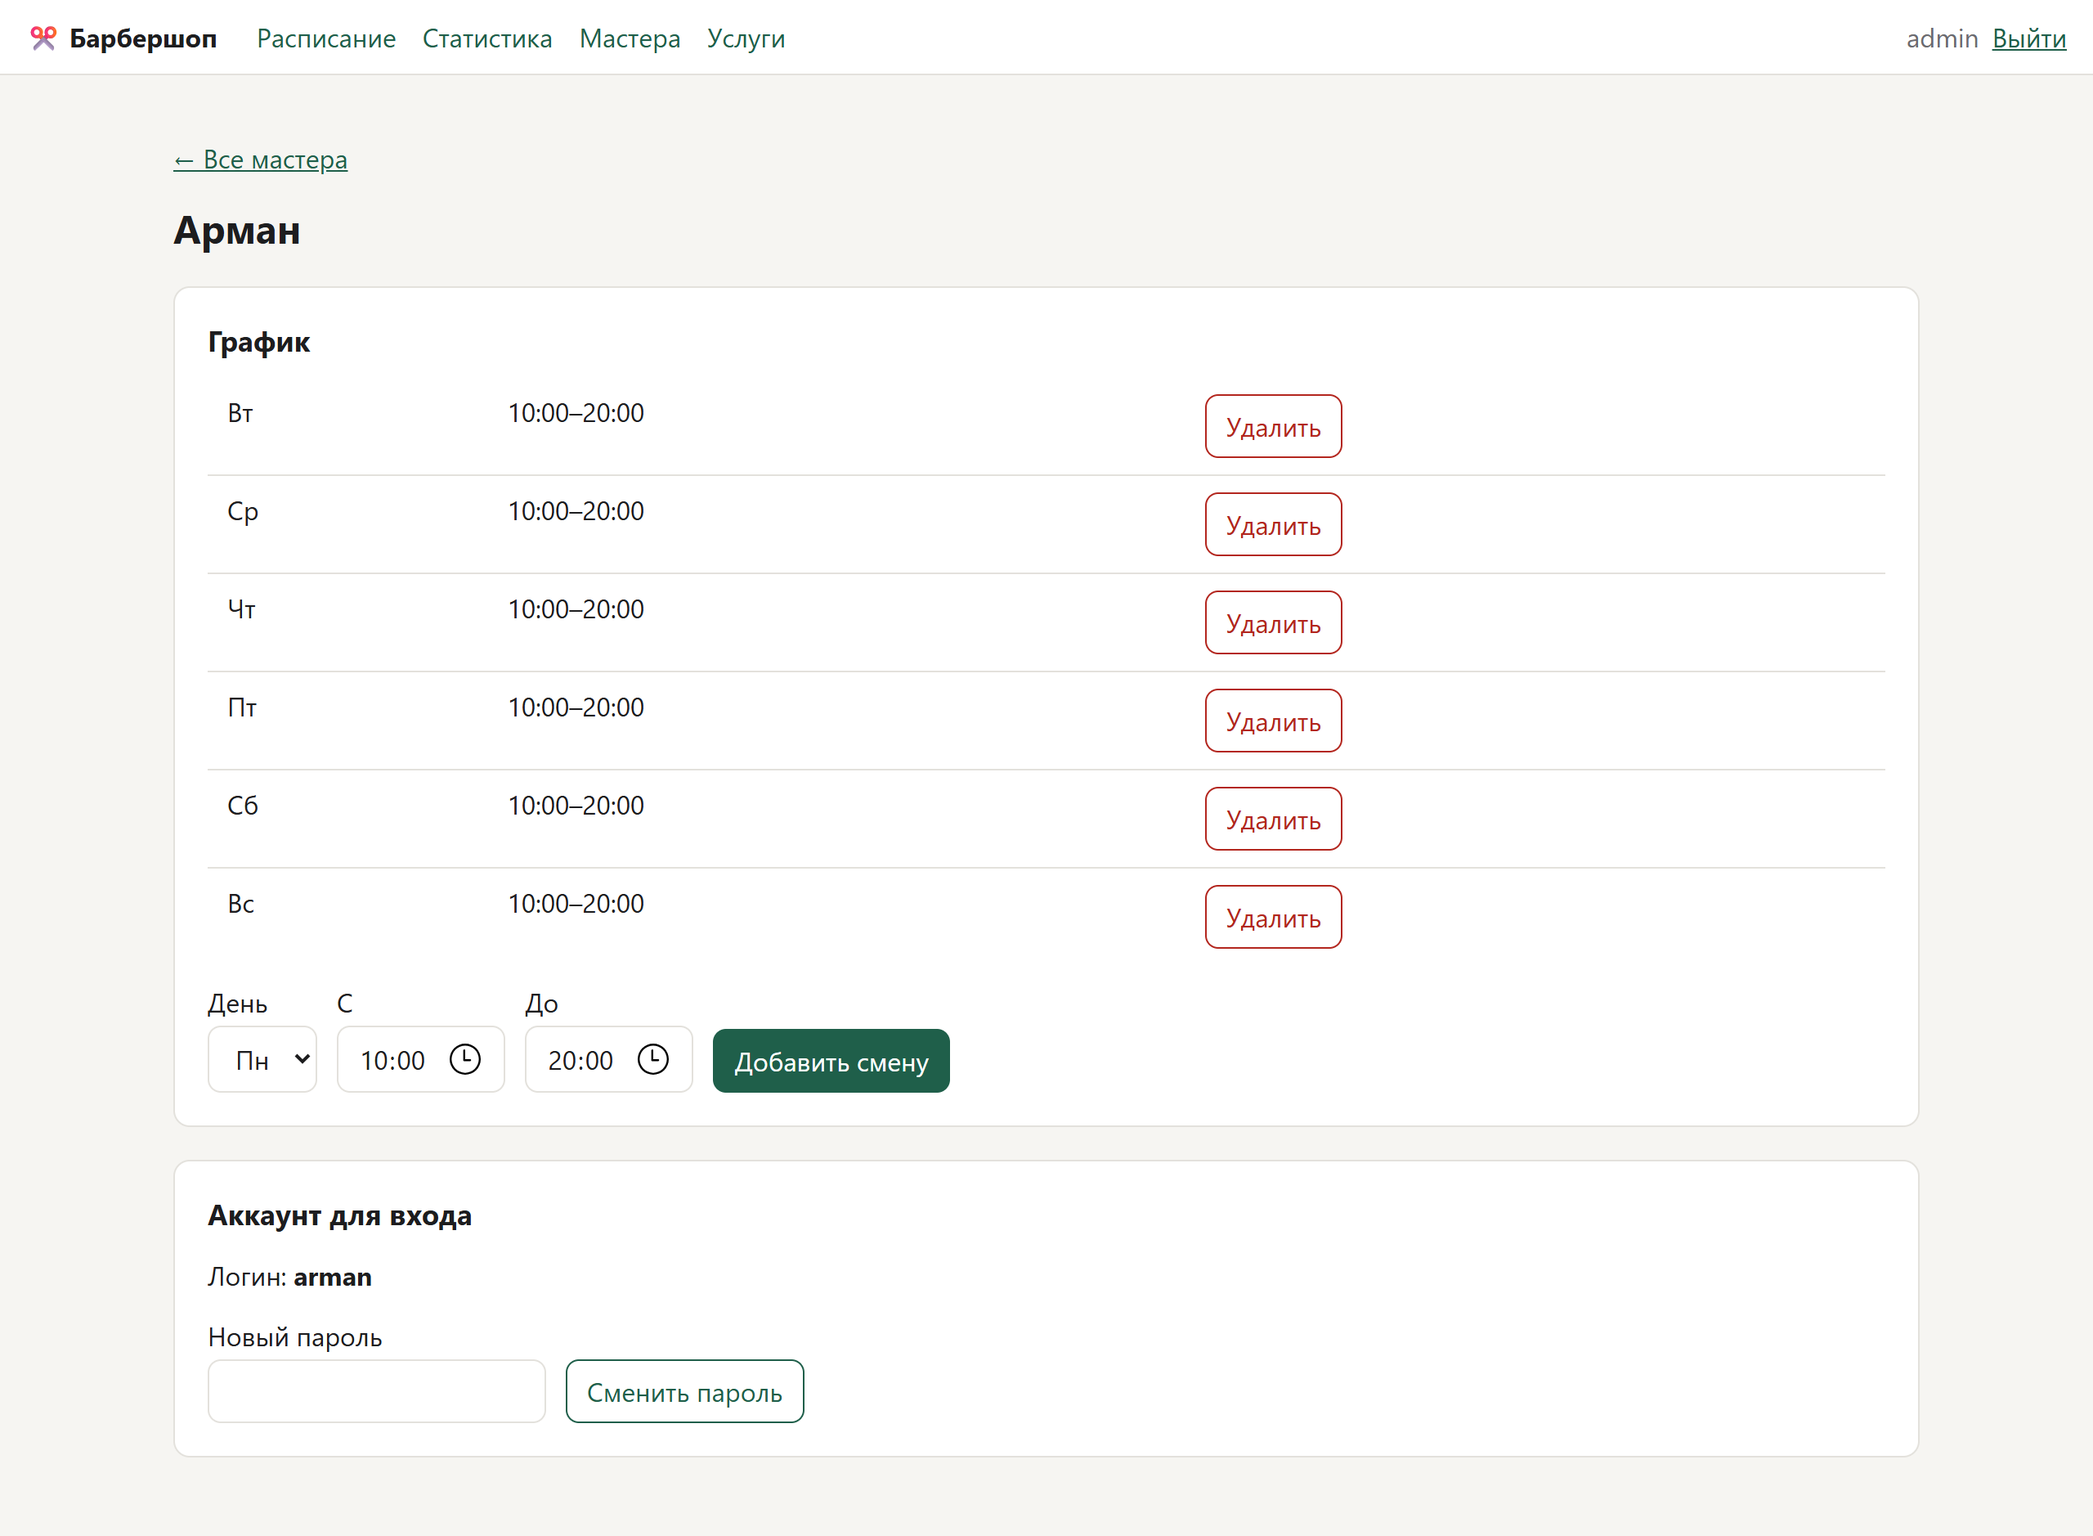
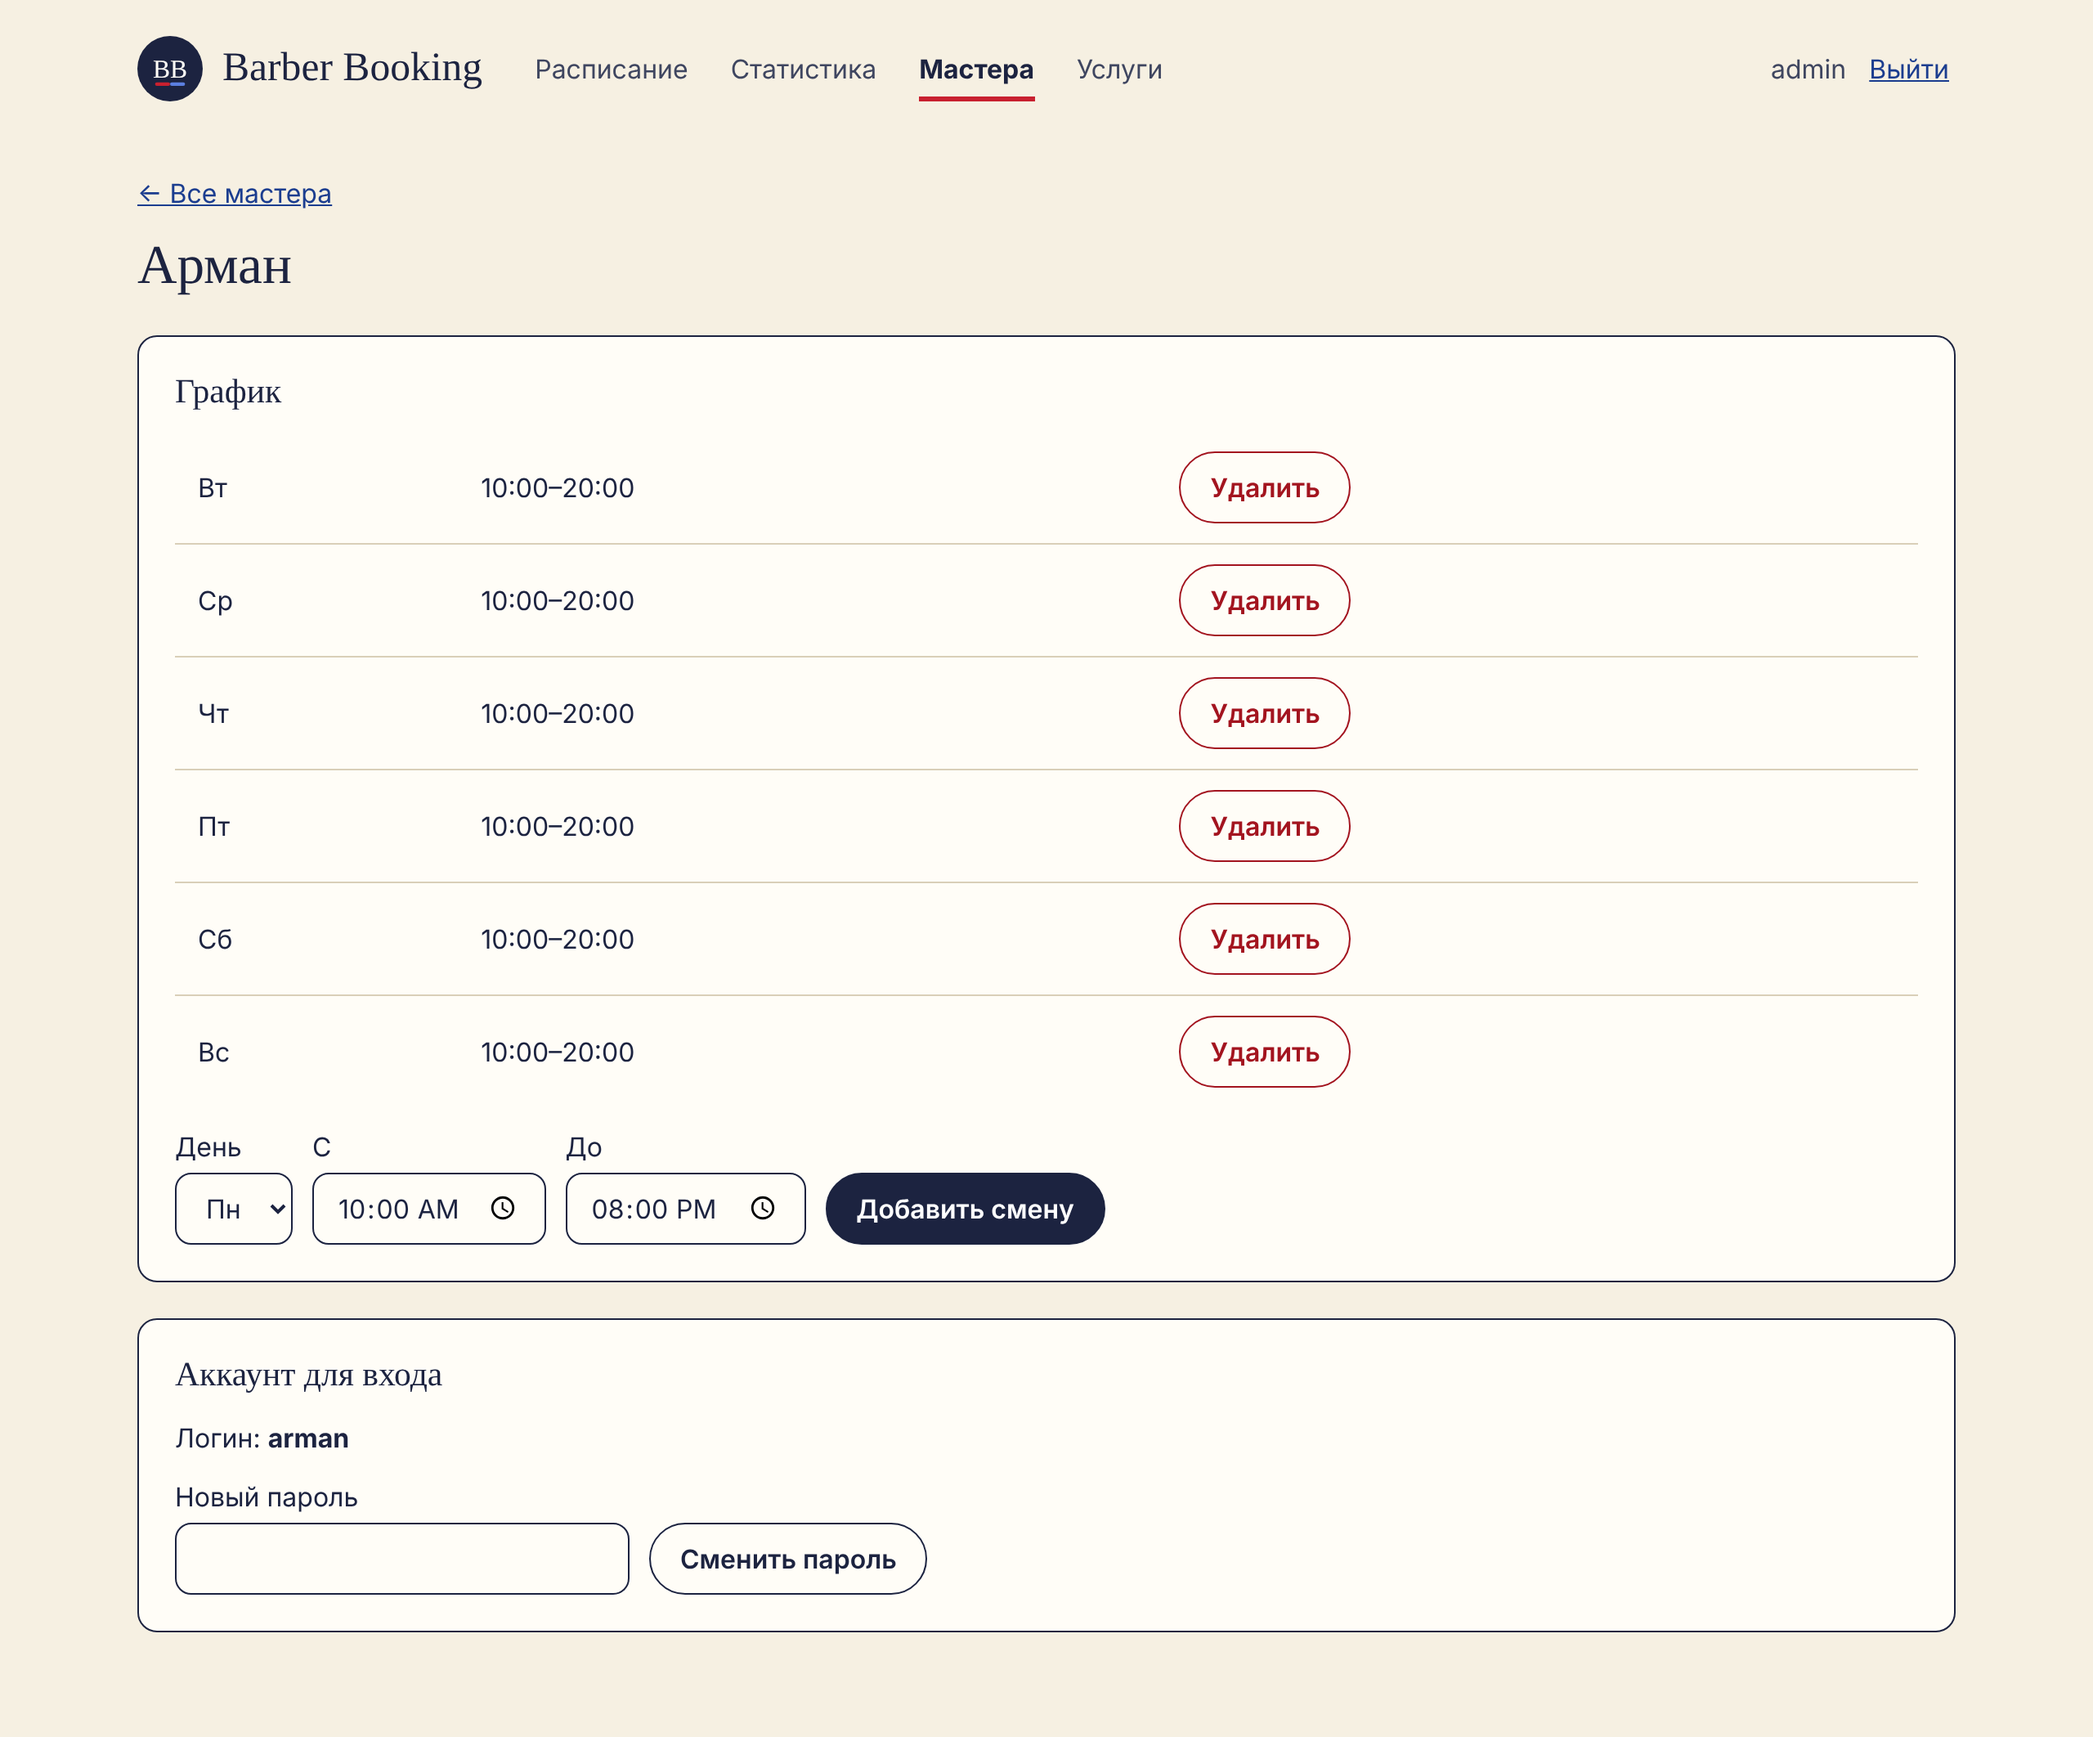
Polish README and refresh admin screenshots
Centered header with icon, badges and the timeline screenshot, new
stats and barber screenshots in the current design, hours shown as
"39 / 60 ч" on the stats page.

Claude-Session: https://claude.ai/code/session_01D18ToYfT8JomoVtHmpPav1

diff --git a/app/templates/admin_stats.html b/app/templates/admin_stats.html
@@ -25,7 +25,7 @@
     <tr>
       <th>Мастер</th><th class="num">Записей</th><th class="num">Пришли</th>
       <th class="num">Не пришли</th><th class="num">Отменили</th><th class="num">Без отметки</th>
-      <th class="num">Занято / по графику, ч</th><th class="num">Загрузка</th><th class="num">Выручка</th>
+      <th class="num">Занято / по графику</th><th class="num">Загрузка</th><th class="num">Выручка</th>
     </tr>
   </thead>
   <tbody>
@@ -37,7 +37,7 @@
       <td class="num">{{ r.no_show }}</td>
       <td class="num">{{ r.cancelled }}</td>
       <td class="num">{{ r.pending }}</td>
-      <td class="num">{{ (r.busy_minutes / 60)|round(1) }} / {{ (r.work_minutes / 60)|round(1) }}</td>
+      <td class="num nowrap">{{ "%g"|format((r.busy_minutes / 60)|round(1)) }} / {{ "%g"|format((r.work_minutes / 60)|round(1)) }} ч</td>
       <td class="num">
         {% if r.load_percent is not none %}
           <span class="bar"><span style="width: {{ [r.load_percent, 100]|min }}%"></span></span>

diff --git a/app/static/style.css b/app/static/style.css
@@ -207,3 +207,4 @@ button.on-red.ghost { background: transparent; color: #fff; }
   table.cards td.actions button { flex: 1; }
   table.cards .actions form { display: flex; width: 100%; }
 }
+.card td { vertical-align: middle; }  /* строки графика: текст на одной линии с кнопкой */

diff --git a/README.md b/README.md
@@ -1,8 +1,23 @@
+<div align="center">
+
+<img src="app/static/icon.svg" width="72" alt="">
+
 # Barber Booking
 
-Онлайн-запись в барбершоп: клиент записывается через Telegram-бота, мастер отмечает визиты в веб-кабинете, админ управляет мастерами и услугами и смотрит загрузку и выручку.
+**Онлайн-запись в барбершоп.** Клиент записывается через Telegram-бота, мастер отмечает визиты в веб-кабинете, админ видит загрузку и выручку. Две записи на одно время база данных не пропустит.
 
-![CI](https://github.com/Karasai69/barber-booking/actions/workflows/ci.yml/badge.svg)
+[![CI](https://github.com/Karasai69/barber-booking/actions/workflows/ci.yml/badge.svg)](https://github.com/Karasai69/barber-booking/actions/workflows/ci.yml)
+![Python](https://img.shields.io/badge/Python-3.13-1c2340)
+![FastAPI](https://img.shields.io/badge/FastAPI-Jinja2-1c2340)
+![PostgreSQL](https://img.shields.io/badge/PostgreSQL-17-1c2340)
+![Celery](https://img.shields.io/badge/Celery-Redis-c8202f)
+![aiogram](https://img.shields.io/badge/aiogram-3-1b3d8f)
+
+<img src="docs/screenshots/admin-schedule.png" alt="Расписание мастера на шкале времени у барбер-пола" width="860">
+
+<sub>День мастера у барбер-пола: белый — визит прошёл, красный — клиент сейчас в кресле, синий — запись впереди.</sub>
+
+</div>
 
 ## Возможности
 
@@ -17,10 +32,6 @@
 **Админ: загрузка и выручка по мастерам**
 
 ![Статистика](docs/screenshots/admin-stats.png)
-
-**Расписание мастера на день** — шкала времени у барбер-пола: белый — прошло, красный — сейчас в кресле, синий — впереди
-
-![Расписание](docs/screenshots/admin-schedule.png)
 
 <table>
   <tr>
@@ -70,6 +81,7 @@ flowchart LR
 - **Защита от двойной записи на уровне БД.** Ограничение `EXCLUDE USING gist (barber_id WITH =, tstzrange(start_at, end_at) WITH &&) WHERE status = 'booked'`: PostgreSQL сама не даст записать к мастеру две пересекающиеся записи, даже если запросы придут одновременно. Тест отправляет 10 параллельных запросов на одно время, успешен ровно один (`tests/test_booking.py`).
 - **Напоминания без дублей.** Задача помечает записи одним `UPDATE ... WHERE reminder_sent_at IS NULL RETURNING`, поэтому два одновременных запуска не отправят одно напоминание дважды. Временная ошибка Telegram приводит к повтору, «бот заблокирован» — нет.
 - **Роли и права.** JWT для API, тот же JWT в `HttpOnly` + `SameSite=Lax` cookie для веб-кабинета. Ограничения мастера (только свои записи, только отметка визита) проверяются в бизнес-логике, а не только в роутере.
+- **Шкала дня считается на сервере, а не в шаблоне.** `app/timeline.py` переводит время записей в отступы и высоты, ставит рядом записи, которые пересекаются на экране, и отмечает нерабочие часы. Модуль не знает ни про базу, ни про HTML, поэтому покрыт обычными тестами (`tests/test_timeline.py`).
 - **Цена хранится в записи.** Если услуга подорожает, выручка за прошлые периоды не изменится.
 
 Все решения с альтернативами описаны в [DECISIONS.md](DECISIONS.md).
@@ -122,13 +134,19 @@ app/
   booking.py       запись, свободные слоты, статусы, правила
   reminders.py     выбор записей для напоминаний
   stats.py         расписание на день, загрузка и выручка
+  timeline.py      раскладка дня мастера на шкале времени
   reports.py       ежедневный отчёт
   tasks.py         задачи Celery
   auth.py          проверка JWT и ролей
   routers/         эндпоинты API
   web.py           веб-кабинет (Jinja2)
+  templates/, static/   страницы кабинета, стили, иконка
 bot/               Telegram-бот (aiogram)
 alembic/           миграции
 scripts/           создание админа, демо-данные
 tests/             pytest
 ```
+
+## Автор
+
+Студент 4 курса КазНУ, «Компьютерная инженерия» — [github.com/Karasai69](https://github.com/Karasai69). Первый проект — [AI Finance Tracker](https://github.com/Karasai69/ai-finance-tracker).
